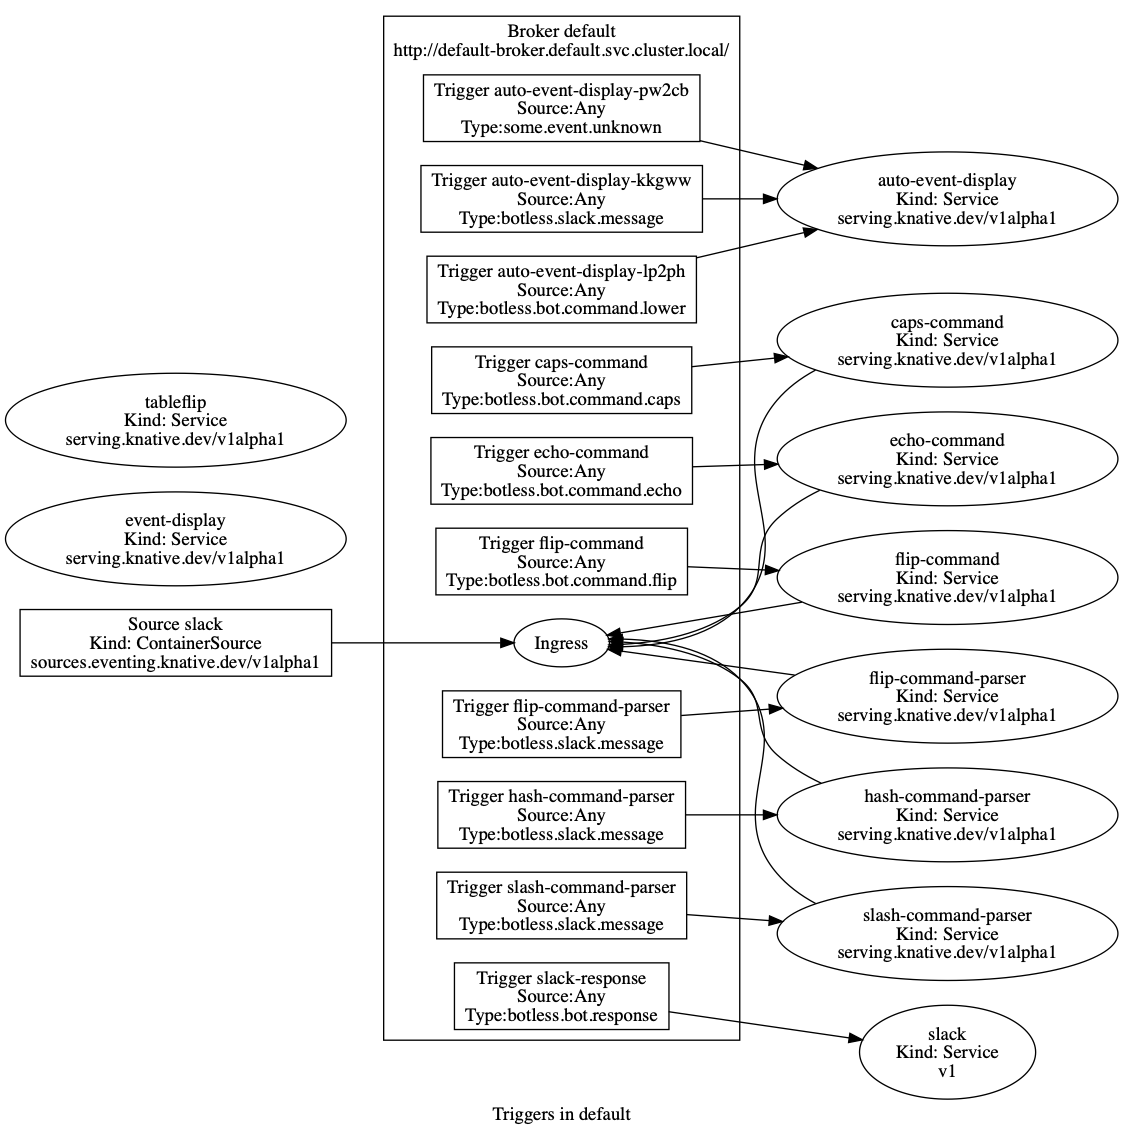
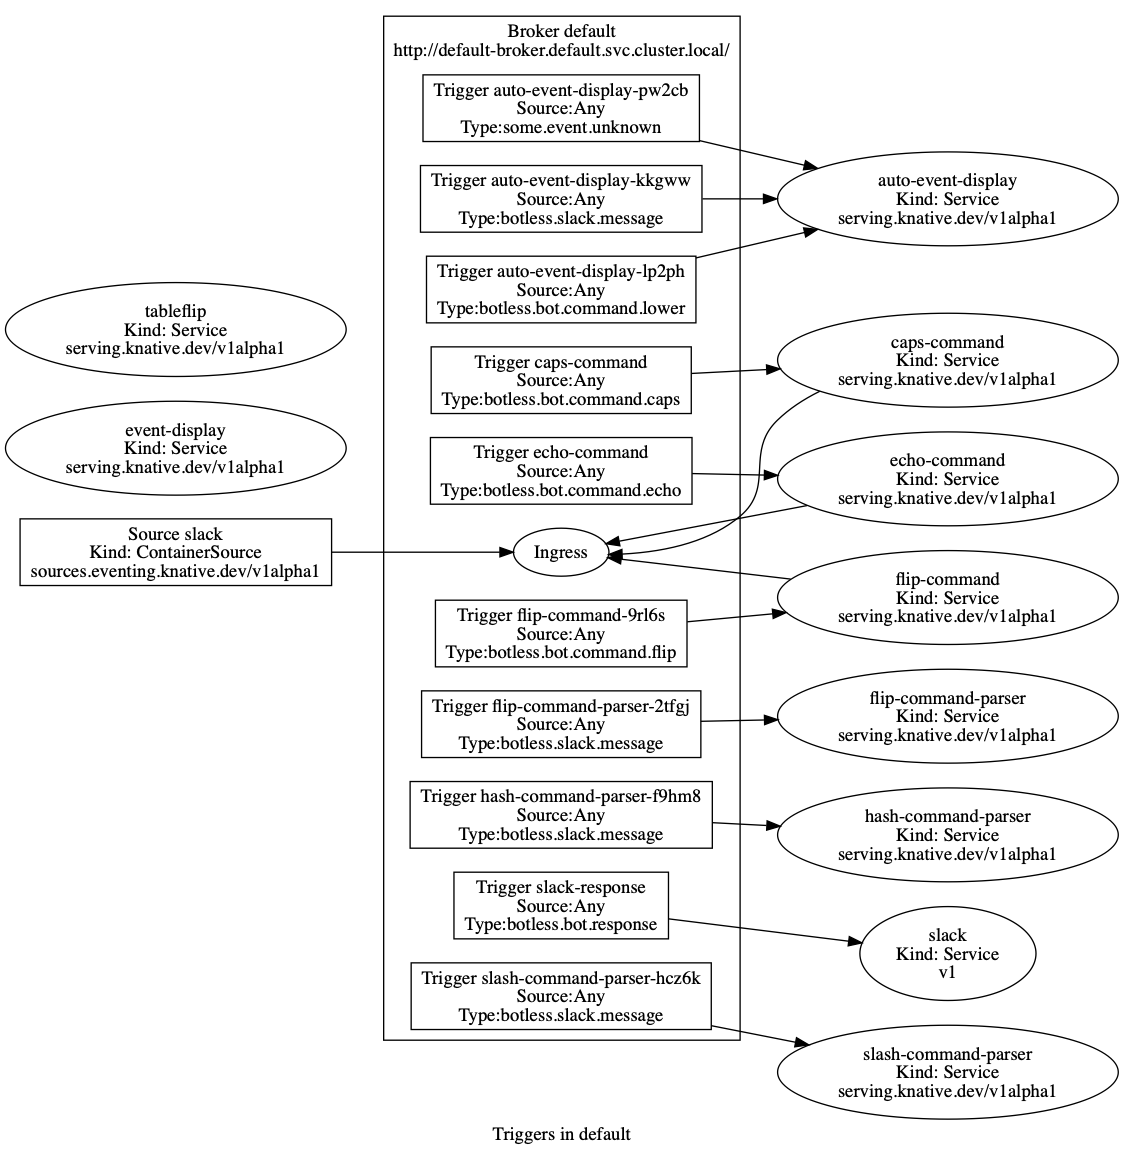
fix.

diff --git a/cmd/graph/main.go b/cmd/graph/main.go
@@ -3,24 +3,60 @@ package main
 import (
 	"bytes"
 	"encoding/base64"
+	"flag"
 	"fmt"
+	"github.com/n3wscott/knap/pkg/config"
+	"github.com/n3wscott/knap/pkg/graph"
 	"html/template"
 	"io/ioutil"
+	"k8s.io/client-go/dynamic"
 	"log"
 	"net/http"
 	"os"
 	"os/exec"
+	"os/user"
+	"path"
 	"path/filepath"
 	"strconv"
+	// Uncomment the following line to load the gcp plugin (only required to authenticate against GKE clusters).
+	_ "k8s.io/client-go/plugin/pkg/client/auth/gcp"
 )
 
-func main() {
-	http.HandleFunc("/", handler)
-	log.Println("Listening on 8080")
-	err := http.ListenAndServe(":8080", nil)
-	if err != nil {
-		log.Fatal("ListenAndServe:", err)
+var (
+	cluster    string
+	kubeconfig string
+)
+
+func init() {
+	flag.StringVar(&cluster, "cluster", "",
+		"Provide the cluster to test against. Defaults to the current cluster in kubeconfig.")
+
+	var defaultKubeconfig string
+	if usr, err := user.Current(); err == nil {
+		defaultKubeconfig = path.Join(usr.HomeDir, ".kube/config")
 	}
+
+	flag.StringVar(&kubeconfig, "kubeconfig", defaultKubeconfig,
+		"Provide the path to the `kubeconfig` file you'd like to use for these tests. The `current-context` will be used.")
+}
+
+var client dynamic.Interface
+var ns = "default"
+
+func main() {
+	flag.Parse()
+
+	cfg, err := config.BuildClientConfig(kubeconfig, cluster)
+	if err != nil {
+		log.Fatalf("Error building kubeconfig", err)
+	}
+
+	client = dynamic.NewForConfigOrDie(cfg)
+
+	http.HandleFunc("/", handler)
+
+	log.Println("Listening on 8080")
+	log.Fatal(http.ListenAndServe(":8080", nil))
 }
 
 func getQueryParam(r *http.Request, key string) string {
@@ -31,34 +67,24 @@ func getQueryParam(r *http.Request, key string) string {
 	return keys[0]
 }
 
-var defaultFormat = "png"
+var defaultPage = "html"  // or img
+var defaultFormat = "svg" // or png
 
 func handler(w http.ResponseWriter, r *http.Request) {
 
 	page := getQueryParam(r, "page")
+	if page == "" {
+		page = defaultPage
+	}
 
 	format := getQueryParam(r, "format")
-
 	if format == "" {
 		format = defaultFormat
 	}
 
-	//var img image.Image
+	dotGraph := graph.ForTriggers(client, ns)
 
-	// /user/bin/dot
-
-	graph := `
-graph {
-    a -- b;
-    b -- c;
-    a -- c;
-    d -- c;
-    e -- c;
-    e -- a;
-}
-  `
-
-	file, err := dotToImage(format, []byte(graph))
+	file, err := dotToImage(format, []byte(dotGraph))
 	if err != nil {
 		log.Printf("dotToImage error %s", err)
 		return
@@ -66,31 +92,36 @@ graph {
 	log.Printf("dotToImage image %s", file)
 	img, err := ioutil.ReadFile(file)
 
+	defer os.Remove(file) // clean up
+
 	if page == "html" {
 		writeBytesWithTemplate(w, img, format)
 	} else {
 		writeBytes(w, img, format)
 	}
+
 }
 
-var dotExe string
+var dot string
 
-func dotToImage(format string, dot []byte) (string, error) {
-	if dotExe == "" {
-		dot, err := exec.LookPath("dot")
+func dotToImage(format string, b []byte) (string, error) {
+
+	if dot == "" {
+		var err error
+		dot, err = exec.LookPath("dot")
 		if err != nil {
 			log.Fatalln("unable to find program 'dot', please install it or check your PATH")
 		}
-		dotExe = dot
 	}
 
 	var img = filepath.Join(os.TempDir(), fmt.Sprintf("graph.%s", format))
 
-	cmd := exec.Command(dotExe, fmt.Sprintf("-T%s", format), "-o", img)
-	cmd.Stdin = bytes.NewReader(dot)
+	cmd := exec.Command(dot, fmt.Sprintf("-T%s", format), "-o", img) //, tmpfile.Name())
+	cmd.Stdin = bytes.NewBuffer(b)
 	if err := cmd.Run(); err != nil {
 		return "", err
 	}
+	log.Printf("done. wrote to  %s", img)
 	return img, nil
 }
 
@@ -99,18 +130,16 @@ var Template = `<!DOCTYPE html>
 <body><img src="data:{{.Format}},{{.Image}}"></body>`
 
 func writeBytesWithTemplate(w http.ResponseWriter, b []byte, format string) {
-	var data map[string]interface{}
-
 	if format == "svg" {
-		data = map[string]interface{}{
-			"Image":  string(b),
-			"Format": fmt.Sprintf("image/%s+xml;utf8", format),
-		}
-	} else {
-		data = map[string]interface{}{
-			"Image":  base64.StdEncoding.EncodeToString(b),
-			"Format": fmt.Sprintf("image/%s;base64", format),
-		}
+		_, _ = w.Write([]byte(`<!DOCTYPE html><html lang="en"><head></head><body>`))
+		_, _ = w.Write(b)
+		_, _ = w.Write([]byte(`</body></html>`))
+		return
+	}
+
+	data := map[string]interface{}{
+		"Image":  base64.StdEncoding.EncodeToString(b),
+		"Format": fmt.Sprintf("image/%s;base64", format),
 	}
 	if tmpl, err := template.New("image").Parse(Template); err != nil {
 		log.Println("unable to parse image template.")

diff --git a/pkg/graph/triggers.go b/pkg/graph/triggers.go
@@ -1,0 +1,34 @@
+package graph
+
+import (
+	"github.com/n3wscott/knap/pkg/knative"
+	"k8s.io/client-go/dynamic"
+)
+
+func ForTriggers(client dynamic.Interface, ns string) string {
+	g := New(ns)
+
+	c := knative.New(client)
+
+	// load the brokers
+	for _, broker := range c.Brokers(ns) {
+		g.AddBroker(broker)
+	}
+
+	// load the sources
+	for _, source := range c.Sources(ns) {
+		g.AddSource(source)
+	}
+
+	// load the triggers
+	for _, trigger := range c.Triggers(ns) {
+		g.AddTrigger(trigger)
+	}
+
+	// load the services
+	for _, service := range c.KnServices(ns) {
+		g.AddKnService(service)
+	}
+
+	return g.String()
+}
